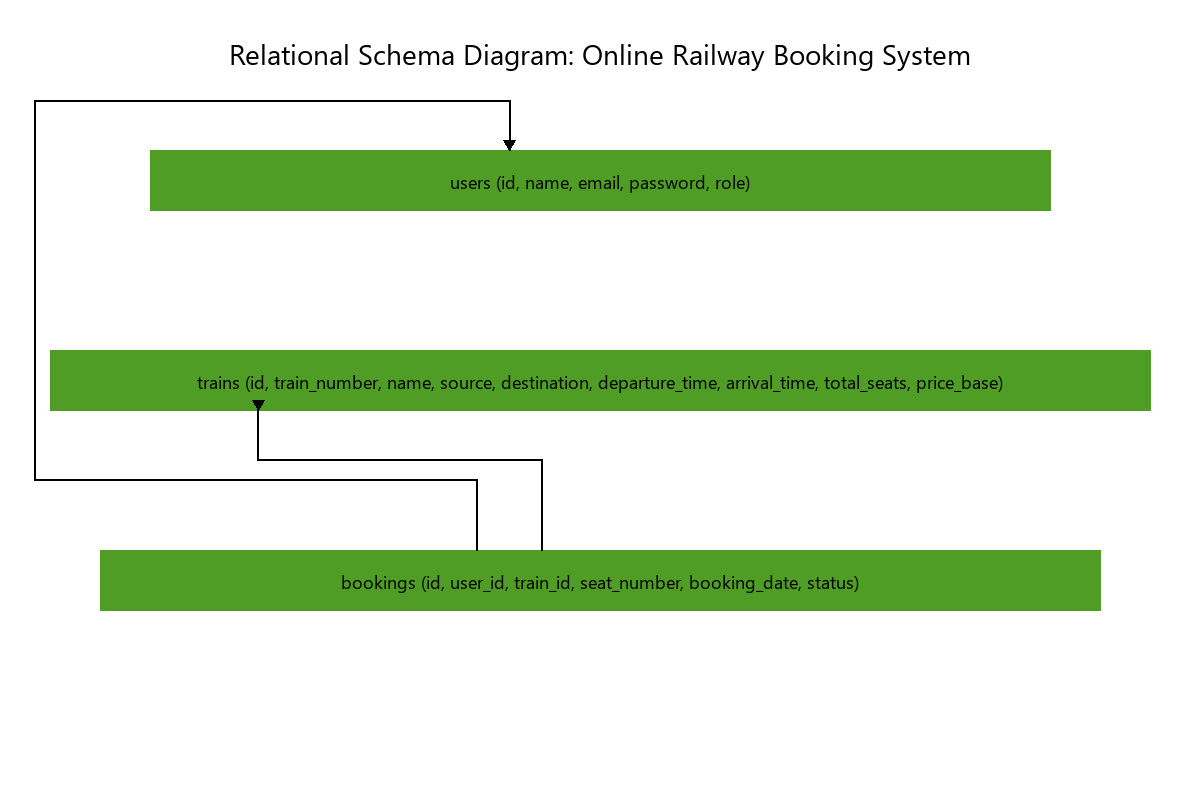
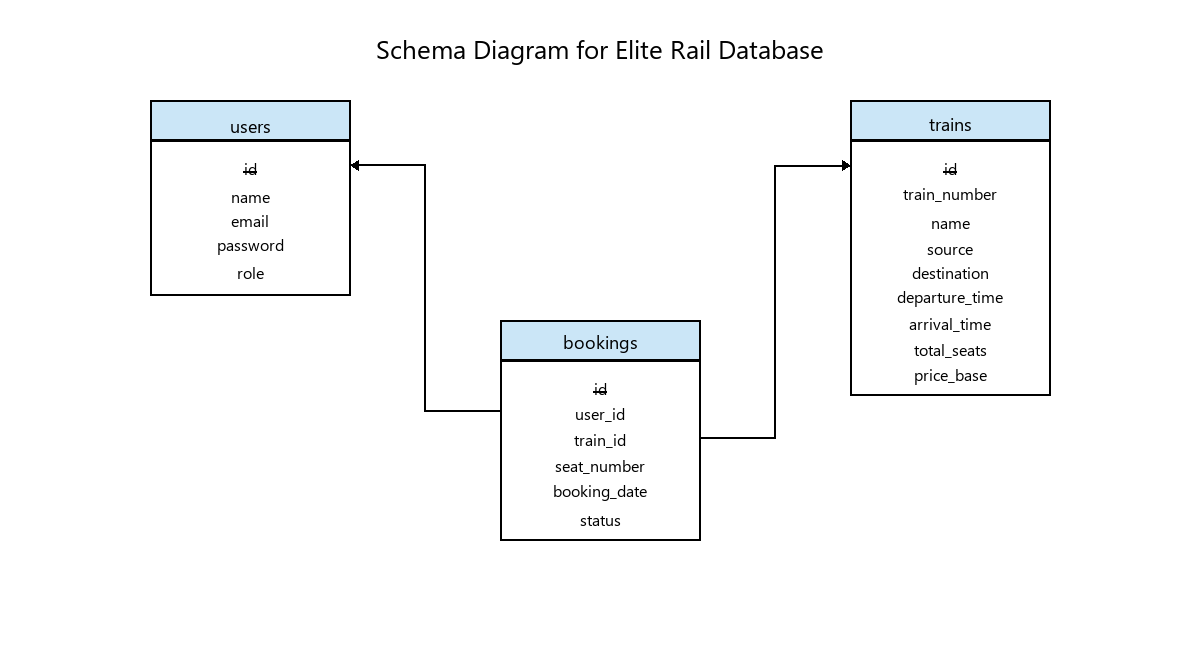
style: update relational schema diagram style to match university database design (sky-blue headers, vertical boxes, orthogonal arrows)

diff --git a/generate_diagrams.py b/generate_diagrams.py
@@ -170,94 +170,77 @@ def generate_er_diagram(output_path):
     img.save(output_path, "PNG")
     print(f"ER diagram successfully saved to {output_path}")
 
+def draw_arrow_left(draw, x, y):
+    draw.polygon([(x + 8, y - 5), (x + 8, y + 5), (x, y)], fill="black")
+
+def draw_arrow_right(draw, x, y):
+    draw.polygon([(x - 8, y - 5), (x - 8, y + 5), (x, y)], fill="black")
+
 def generate_schema_diagram(output_path):
     # Canvas Size
-    img = Image.new("RGB", (1200, 800), "white")
+    img = Image.new("RGB", (1200, 650), "white")
     draw = ImageDraw.Draw(img)
     
-    font_title = get_font(28)
-    font_table = get_font(18)
+    font_title = get_font(26)
+    font_tbl_header = get_font(18)
+    font_col = get_font(16)
     
-    # Title
-    draw_centered_text(draw, "Relational Schema Diagram: Online Railway Booking System", 600, 50, font_title)
+    # Title (Sky-blue header style matches the reference image title)
+    draw_centered_text(draw, "Schema Diagram for Elite Rail Database", 600, 45, font_title)
     
-    # Colors
-    box_color = (79, 157, 36) # #4F9D24 Grass Green
-    text_color = "white"
+    # Header sky-blue color
+    header_color = (203, 230, 247) # Light blue/sky blue #CBE6F7
     
-    # Define Tables
-    tables = [
-        {
-            "name": "users",
-            "text": "users (id, name, email, password, role)",
-            "box": (150, 150, 1050, 210)
-        },
-        {
-            "name": "trains",
-            "text": "trains (id, train_number, name, source, destination, departure_time, arrival_time, total_seats, price_base)",
-            "box": (50, 350, 1150, 410)
-        },
-        {
-            "name": "bookings",
-            "text": "bookings (id, user_id, train_id, seat_number, booking_date, status)",
-            "box": (100, 550, 1100, 610)
-        }
-    ]
+    # Define Tables and Coordinates
+    # users: X: 150 to 350 (width 200). Y: 100 to 140 (header), 140 to 290 (cols)
+    draw.rectangle((150, 100, 350, 140), fill=header_color, outline="black", width=2)
+    draw.rectangle((150, 140, 350, 295), fill="white", outline="black", width=2)
+    draw_centered_text(draw, "users", 250, 120, font_tbl_header)
     
-    # Draw Tables
-    cols_x = {}
-    for tbl in tables:
-        draw.rectangle(tbl["box"], fill=box_color)
+    users_cols = [("id", True), ("name", False), ("email", False), ("password", False), ("role", False)]
+    for idx, (col, pk) in enumerate(users_cols):
+        cy = 165 + idx * 26
+        draw_centered_text(draw, col, 250, cy, font_col, underline=pk)
         
-        # Centered text in box
-        box_w = tbl["box"][2] - tbl["box"][0]
-        bbox_text = draw.textbbox((0, 0), tbl["text"], font=font_table)
-        text_w = bbox_text[2] - bbox_text[0]
-        start_x = tbl["box"][0] + (box_w - text_w) / 2
-        cy = tbl["box"][1] + (tbl["box"][3] - tbl["box"][1]) / 2
-        
-        # Draw entire text
-        draw_centered_text(draw, tbl["text"], tbl["box"][0] + box_w/2, cy, font_table)
-        
-        # Calculate specific column center coordinate X
-        if tbl["name"] == "users":
-            cols_x["users.id"] = get_column_x(draw, tbl["text"], "id", start_x, font_table)
-        elif tbl["name"] == "trains":
-            cols_x["trains.id"] = get_column_x(draw, tbl["text"], "id", start_x, font_table)
-        elif tbl["name"] == "bookings":
-            cols_x["bookings.user_id"] = get_column_x(draw, tbl["text"], "user_id", start_x, font_table)
-            cols_x["bookings.train_id"] = get_column_x(draw, tbl["text"], "train_id", start_x, font_table)
-            
-    # Draw Foreign Key Arrows
-    # 1. bookings.user_id -> users.id
-    # Path: bookings.user_id (top of box, Y=550) -> up to Y=480 -> left to X=35 -> up to Y=100 -> right to users.id X -> down to users.id Y=150
-    x_start1 = cols_x["bookings.user_id"]
-    x_end1 = cols_x["users.id"]
+    # trains: X: 850 to 1050 (width 200). Y: 100 to 140 (header), 140 to 395 (cols)
+    draw.rectangle((850, 100, 1050, 140), fill=header_color, outline="black", width=2)
+    draw.rectangle((850, 140, 1050, 395), fill="white", outline="black", width=2)
+    draw_centered_text(draw, "trains", 950, 120, font_tbl_header)
     
-    points1 = [
-        (x_start1, 550),
-        (x_start1, 480),
-        (35, 480),
-        (35, 100),
-        (x_end1, 100),
-        (x_end1, 150)
+    trains_cols = [
+        ("id", True), ("train_number", False), ("name", False), 
+        ("source", False), ("destination", False), ("departure_time", False), 
+        ("arrival_time", False), ("total_seats", False), ("price_base", False)
     ]
-    draw.line(points1, fill="black", width=2)
-    draw_arrow_down(draw, x_end1, 150)
+    for idx, (col, pk) in enumerate(trains_cols):
+        cy = 165 + idx * 26
+        draw_centered_text(draw, col, 950, cy, font_col, underline=pk)
+        
+    # bookings: X: 500 to 700 (width 200). Y: 320 to 360 (header), 360 to 540 (cols)
+    draw.rectangle((500, 320, 700, 360), fill=header_color, outline="black", width=2)
+    draw.rectangle((500, 360, 700, 540), fill="white", outline="black", width=2)
+    draw_centered_text(draw, "bookings", 600, 340, font_tbl_header)
     
-    # 2. bookings.train_id -> trains.id
-    # Path: bookings.train_id (top of box, Y=550) -> up to Y=460 -> left/right to trains.id X -> down to trains.id Y=410
-    x_start2 = cols_x["bookings.train_id"]
-    x_end2 = cols_x["trains.id"]
-    
-    points2 = [
-        (x_start2, 550),
-        (x_start2, 460),
-        (x_end2, 460),
-        (x_end2, 410)
+    bookings_cols = [
+        ("id", True), ("user_id", False), ("train_id", False), 
+        ("seat_number", False), ("booking_date", False), ("status", False)
     ]
-    draw.line(points2, fill="black", width=2)
-    draw_arrow_down(draw, x_end2, 410)
+    for idx, (col, pk) in enumerate(bookings_cols):
+        cy = 385 + idx * 26
+        draw_centered_text(draw, col, 600, cy, font_col, underline=pk)
+        
+    # Draw Referential Integrity Arrows
+    # 1. bookings.user_id (FK) -> users.id (PK)
+    # user_id is the 2nd column in bookings -> Y = 385 + 1 * 26 = 411. Left boundary = 500
+    # users.id is the 1st column in users -> Y = 165. Right boundary = 350
+    draw.line([(500, 411), (425, 411), (425, 165), (350, 165)], fill="black", width=2)
+    draw_arrow_left(draw, 350, 165)
+    
+    # 2. bookings.train_id (FK) -> trains.id (PK)
+    # train_id is the 3rd column in bookings -> Y = 385 + 2 * 26 = 437. Right boundary = 700
+    # trains.id is the 1st column in trains -> Y = 165. Left boundary = 850
+    draw.line([(700, 437), (775, 437), (775, 165), (850, 165)], fill="black", width=2)
+    draw_arrow_right(draw, 850, 165)
     
     img.save(output_path, "PNG")
     print(f"Schema diagram successfully saved to {output_path}")